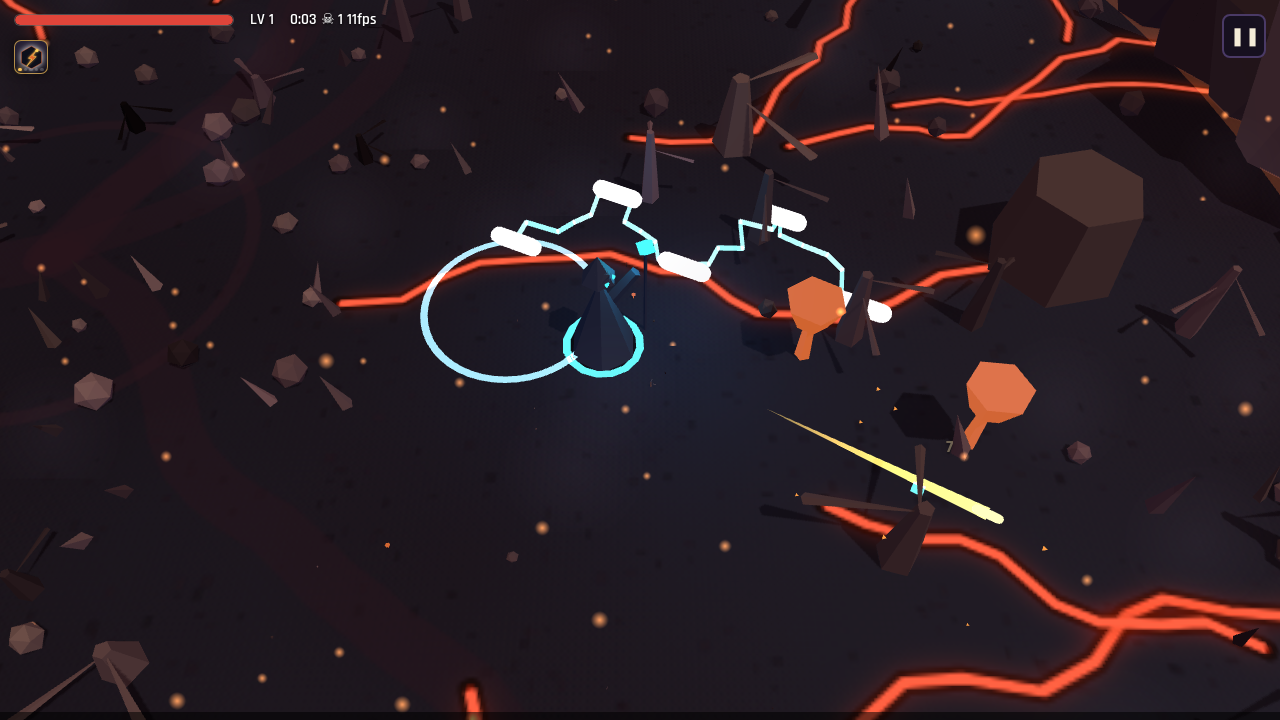
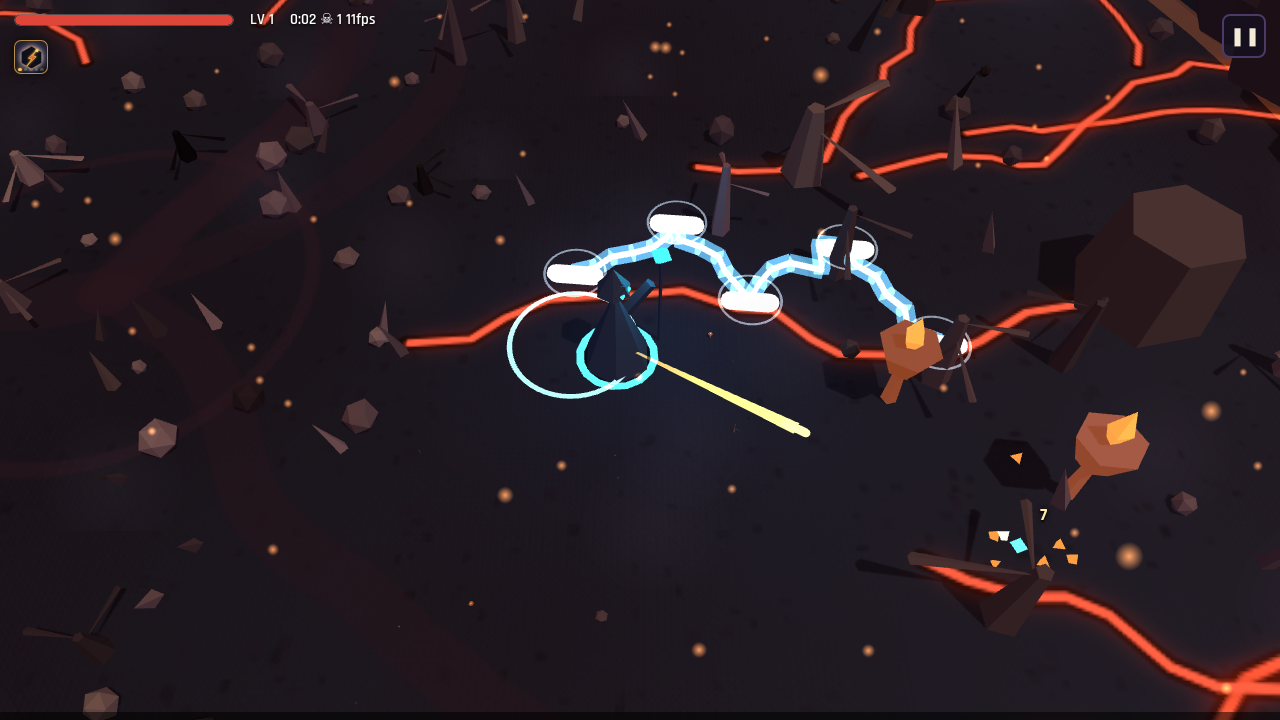
Art: lightning core+halo+node flash, tapered cyan-white blades, filled nova disc; merge #62 render

diff --git a/src/game/render/vfx.ts b/src/game/render/vfx.ts
@@ -8,7 +8,7 @@ export class Vfx {
   constructor(scene: THREE.Scene) {
     const g = new THREE.RingGeometry(0.92, 1, 48); g.rotateX(-Math.PI / 2);
     this.mesh = new THREE.InstancedMesh(g, new THREE.MeshBasicMaterial({ blending: THREE.AdditiveBlending, transparent: true, depthWrite: false, toneMapped: false }), Vfx.N);
-    this.mesh.instanceColor = new THREE.InstancedBufferAttribute(new Float32Array(Vfx.N * 3), 3); this.mesh.frustumCulled = false; this.mesh.count = 0; this.mesh.renderOrder = 2; scene.add(this.mesh); this.initTrail(scene); this.initZap(scene);
+    this.mesh.instanceColor = new THREE.InstancedBufferAttribute(new Float32Array(Vfx.N * 3), 3); this.mesh.frustumCulled = false; this.mesh.count = 0; this.mesh.renderOrder = 2; scene.add(this.mesh); this.initTrail(scene); this.initZap(scene); this.initDisc(scene);
   }
   ring(x: number, z: number, color: number, maxR: number, life: number, y = 0.12) {
     const i = this.head; this.head = (i + 1) % Vfx.N; this.x[i] = x; this.z[i] = z; this.y[i] = y; this.max[i] = maxR; this.life[i] = life; this.lifeMax[i] = life; this.col[i] = color;
@@ -19,7 +19,7 @@ export class Vfx {
   impact(x: number, z: number, color = 0xffd35a) { this.ring(x, z, color, 1.3, 0.2, 0.5); }
   bossBurst(x: number, z: number) { this.ring(x, z, 0xff3355, 18, 0.9); this.ring(x, z, 0xffffff, 9, 0.5); }
   // --- chain lightning: immediate-mode jagged additive bolts (re-jittered every frame = flicker) ---
-  static NZ = 320; private zm!: THREE.InstancedMesh; private zn = 0; private zc = new THREE.Color();
+  static NZ = 640; private zm!: THREE.InstancedMesh; private zn = 0; private zc = new THREE.Color();
   private initZap(scene: THREE.Scene) { this.zm = new THREE.InstancedMesh(new THREE.BoxGeometry(1, 1, 1), new THREE.MeshBasicMaterial({ blending: THREE.AdditiveBlending, transparent: true, depthWrite: false, toneMapped: false }), Vfx.NZ);
     this.zm.instanceColor = new THREE.InstancedBufferAttribute(new Float32Array(Vfx.NZ * 3), 3); this.zm.frustumCulled = false; this.zm.count = 0; scene.add(this.zm); }
   zapBegin() { this.zn = 0; }
@@ -28,19 +28,30 @@ export class Vfx {
     for (let i = 1; i <= seg && this.zn < Vfx.NZ; i++) {
       const t = i / seg, j = i === seg ? 0 : (Math.random() - 0.5) * 2 * jag, qx = x1 + dx * t + nx * j, qz = z1 + dz * t + nz * j;
       const sx = qx - px, sz = qz - pz, sl = Math.hypot(sx, sz) || 0.01;
-      this.o.position.set((px + qx) / 2, y, (pz + qz) / 2); this.o.rotation.set(0, Math.atan2(sx, sz), 0); this.o.scale.set(0.11, 0.11, sl + 0.05); this.o.updateMatrix(); this.zm.setMatrixAt(this.zn, this.o.matrix);
-      this.zc.setHex(color).multiplyScalar(2.4 * (0.7 + Math.random() * 0.6)); this.zm.setColorAt(this.zn++, this.zc); px = qx; pz = qz; }
+      this.o.position.set((px + qx) / 2, y, (pz + qz) / 2); this.o.rotation.set(0, Math.atan2(sx, sz), 0);
+      const fl = 0.7 + Math.random() * 0.6; // halo (wide, faint, tinted) then core (thin, white-hot); both flicker
+      if (this.zn + 1 < Vfx.NZ) { this.o.scale.set(0.44, 0.3, sl + 0.1); this.o.updateMatrix(); this.zm.setMatrixAt(this.zn, this.o.matrix); this.zc.setHex(color).multiplyScalar(0.55 * fl); this.zm.setColorAt(this.zn++, this.zc); }
+      this.o.scale.set(0.13, 0.13, sl + 0.05); this.o.updateMatrix(); this.zm.setMatrixAt(this.zn, this.o.matrix); this.zc.setHex(0xffffff).multiplyScalar(2.8 * fl); this.zm.setColorAt(this.zn++, this.zc); px = qx; pz = qz; }
     this.o.rotation.set(0, 0, 0);
   }
   zapEnd() { this.zm.count = this.zn; this.zm.instanceMatrix.needsUpdate = true; if (this.zm.instanceColor) this.zm.instanceColor.needsUpdate = true; }
+  // --- filled translucent discs (frost nova impact) ---
+  static ND = 16; private dm!: THREE.InstancedMesh; private dx = new Float32Array(Vfx.ND * 2); private dl = new Float32Array(Vfx.ND); private dmx = new Float32Array(Vfx.ND); private dr = new Float32Array(Vfx.ND); private dc = new Uint32Array(Vfx.ND); private dh = 0;
+  private initDisc(scene: THREE.Scene) { const g = new THREE.CircleGeometry(1, 40); g.rotateX(-Math.PI / 2); this.dm = new THREE.InstancedMesh(g, new THREE.MeshBasicMaterial({ blending: THREE.AdditiveBlending, transparent: true, depthWrite: false, toneMapped: false }), Vfx.ND);
+    this.dm.instanceColor = new THREE.InstancedBufferAttribute(new Float32Array(Vfx.ND * 3), 3); this.dm.frustumCulled = false; this.dm.count = 0; this.dm.renderOrder = 1; scene.add(this.dm); }
+  disc(x: number, z: number, color: number, R: number, life: number) { const i = this.dh; this.dh = (i + 1) % Vfx.ND; this.dx[i * 2] = x; this.dx[i * 2 + 1] = z; this.dmx[i] = R; this.dl[i] = this.dr[i] = life; this.dc[i] = color; }
+  private updateDisc(dt: number) { let k = 0; for (let i = 0; i < Vfx.ND; i++) { if (this.dl[i] <= 0) continue; this.dl[i] -= dt; if (this.dl[i] <= 0) continue; const t = 1 - this.dl[i] / this.dr[i], r = this.dmx[i] * (1 - (1 - t) * (1 - t) * (1 - t));
+      this.o.position.set(this.dx[i * 2], 0.1, this.dx[i * 2 + 1]); this.o.rotation.set(0, 0, 0); this.o.scale.set(r, 1, r); this.o.updateMatrix(); this.dm.setMatrixAt(k, this.o.matrix); this.c.setHex(this.dc[i]).multiplyScalar(0.55 * (1 - t) * (1 - t)); this.dm.setColorAt(k++, this.c); }
+    this.dm.count = k; this.dm.instanceMatrix.needsUpdate = true; if (this.dm.instanceColor) this.dm.instanceColor.needsUpdate = true; }
   /** Frost nova: expanding ice ring (thick, #9fe8ff) + inner white pulse. */
-  nova(x: number, z: number, R: number) { this.ring(x, z, 0x9fe8ff, R, 0.45, 0.2); this.ring(x, z, 0xffffff, R * 0.7, 0.3, 0.25); this.ring(x, z, 0x9fe8ff, R * 0.4, 0.5, 0.15); }
+  nova(x: number, z: number, R: number) { this.disc(x, z, 0x9fe8ff, R, 0.5); this.ring(x, z, 0x9fe8ff, R, 0.45, 0.2); this.ring(x, z, 0xffffff, R * 0.7, 0.3, 0.25); this.ring(x, z, 0x9fe8ff, R * 0.4, 0.5, 0.15); }
   // --- gem trail: tiny additive diamonds left behind magnetised gems; fade+shrink ---
   static NT = 256; private tm!: THREE.InstancedMesh; private tx = new Float32Array(Vfx.NT * 3); private tl = new Float32Array(Vfx.NT); private tc = new Uint32Array(Vfx.NT); private th = 0;
   private initTrail(scene: THREE.Scene) { this.tm = new THREE.InstancedMesh(new THREE.OctahedronGeometry(0.16), new THREE.MeshBasicMaterial({ blending: THREE.AdditiveBlending, transparent: true, depthWrite: false, toneMapped: false }), Vfx.NT);
     this.tm.instanceColor = new THREE.InstancedBufferAttribute(new Float32Array(Vfx.NT * 3), 3); this.tm.frustumCulled = false; this.tm.count = 0; scene.add(this.tm); }
   trail(x: number, y: number, z: number, color = 0x3df2ff) { const i = this.th; this.th = (i + 1) % Vfx.NT; this.tx[i * 3] = x; this.tx[i * 3 + 1] = y; this.tx[i * 3 + 2] = z; this.tl[i] = 0.35; this.tc[i] = color; }
   update(dt: number) {
+    this.updateDisc(dt);
     { let k = 0; for (let i = 0; i < Vfx.NT; i++) { if (this.tl[i] <= 0) continue; this.tl[i] -= dt; if (this.tl[i] <= 0) continue; const f = this.tl[i] / 0.35;
         this.o.position.set(this.tx[i * 3], this.tx[i * 3 + 1], this.tx[i * 3 + 2]); this.o.scale.setScalar(f); this.o.rotation.set(0, 0, 0); this.o.updateMatrix(); this.tm.setMatrixAt(k, this.o.matrix); this.c.setHex(this.tc[i]).multiplyScalar(2.5 * f); this.tm.setColorAt(k++, this.c); }
       this.tm.count = k; this.tm.instanceMatrix.needsUpdate = true; if (this.tm.instanceColor) this.tm.instanceColor.needsUpdate = true; }

diff --git a/src/game/render/renderer.ts b/src/game/render/renderer.ts
@@ -26,13 +26,13 @@ export class Renderer {
   // shard particles (kill bursts): SoA ring buffer, one InstancedMesh
   static NP = 2000; pMesh: THREE.InstancedMesh; px = new Float32Array(Renderer.NP * 3); pv = new Float32Array(Renderer.NP * 3); pl = new Float32Array(Renderer.NP); pHead = 0;
   setQuality(q: 'low' | 'med' | 'high') { this.q = q; this.bloomOn = q !== 'low' && new URLSearchParams(location.search).get('bloom') !== '0'; const pr = Math.min(devicePixelRatio, q === 'low' ? 1 : q === 'high' ? 2 : 1.5); this.three.setPixelRatio(pr); this.composer.setPixelRatio(pr); this.composer.setSize(innerWidth, innerHeight); }
-  occ!: OccluderFader; tele!: THREE.Mesh; vfx!: Vfx; trailTick = 0; playerMesh: THREE.Group; lantern!: THREE.Mesh; arena: ArenaHandle; m = new THREE.Object3D();
+  occ!: OccluderFader; tele!: THREE.Mesh; vfx!: Vfx; trailTick = 0; bladeMesh!: THREE.InstancedMesh; playerMesh: THREE.Group; lantern!: THREE.Mesh; arena: ArenaHandle; m = new THREE.Object3D();
   constructor(canvas: HTMLCanvasElement, def: ArenaDef) {
     this.three = new THREE.WebGLRenderer({ canvas, antialias: true, powerPreference: 'high-performance' });
     this.three.setPixelRatio(Math.min(devicePixelRatio, 2)); this.three.shadowMap.enabled = true;
     this.scene.background = new THREE.Color(def.palette.sky); this.scene.fog = new THREE.Fog(def.palette.fog, 25, 70);
     this.arena = def.build(this.scene); buildBoundary(this.scene, def);
-    this.tele = createTelegraph(); this.scene.add(this.tele); this.vfx = new Vfx(this.scene);
+    this.tele = createTelegraph(); this.scene.add(this.tele); this.vfx = new Vfx(this.scene); { const bg = new THREE.OctahedronGeometry(0.5, 0); bg.scale(0.5, 0.12, 1.5); this.bladeMesh = new THREE.InstancedMesh(bg, new THREE.MeshBasicMaterial({ color: new THREE.Color(0xbff6ff).multiplyScalar(3), toneMapped: false }), 64); this.bladeMesh.frustumCulled = false; this.bladeMesh.count = 0; this.scene.add(this.bladeMesh); }
     this.scene.traverse(o => { if ((o as THREE.DirectionalLight).isDirectionalLight && !this.sun) this.sun = o as THREE.DirectionalLight; });
     if (this.sun) { this.sunOff.copy(this.sun.position); this.scene.add(this.sun.target); const sc = this.sun.shadow.camera; sc.left = -24; sc.right = 24; sc.top = 24; sc.bottom = -24; sc.updateProjectionMatrix(); this.sun.shadow.mapSize.set(2048, 2048); this.sun.shadow.normalBias = 0.04; }
     this.occ = new OccluderFader(this.scene);
@@ -106,20 +106,21 @@ export class Renderer {
     if (b && b.mode === 1) { const e = s.enemies, L = 22, ang = Math.atan2(b.dx, b.dz); this.tele.position.set(e.x[b.idx] + b.dx * L / 2, 0.06, e.z[b.idx] + b.dz * L / 2); this.tele.rotation.set(-Math.PI / 2, 0, -ang); this.tele.scale.set(3.2, L, 1); (this.tele.material as THREE.MeshBasicMaterial).opacity = 0.45 + 0.35 * Math.abs(Math.sin(s.time * 18)); }
     T = this.lap('particles', T);
     this.enemies.update(s.enemies, s.time, ex); this.dmg.update(dt, this.camera); let n = 0; T = this.lap('enemies', T);
-    n = 0; let rn = 0, tn = 0, ln = 0; const pr = s.projectiles; this.vfx.zapBegin(); let lx = 0, lz = 0, ll = -1;
+    n = 0; let rn = 0, tn = 0, ln = 0, bn = 0; const pr = s.projectiles; this.vfx.zapBegin(); let lx = 0, lz = 0, ll = -1;
     for (let i = 0; i < pr.count; i++) { if (!pr.alive[i]) continue;
       const k = pr.kind[i];
-      if (k === 3) { if (ll >= 0 && Math.abs(pr.life[i] - ll) < 0.03 && Math.hypot(pr.x[i] - lx, pr.z[i] - lz) < 9) this.vfx.zap(lx, lz, pr.x[i], pr.z[i]); lx = pr.x[i]; lz = pr.z[i]; ll = pr.life[i]; }
-      else if (k === 1 && (this.trailTick & 1) === 0) this.vfx.trail(pr.x[i], 0.8, pr.z[i], 0x6fe8ff);
+      if (k === 3) { if (pr.life[i] > 0.1) this.vfx.ring(pr.x[i], pr.z[i], 0xcfefff, 1.1, 0.14, 0.9); if (ll >= 0 && Math.abs(pr.life[i] - ll) < 0.03 && Math.hypot(pr.x[i] - lx, pr.z[i] - lz) < 9) this.vfx.zap(lx, lz, pr.x[i], pr.z[i]); lx = pr.x[i]; lz = pr.z[i]; ll = pr.life[i]; }
+      else if (k === 1) { if ((this.trailTick & 1) === 0) this.vfx.trail(pr.x[i], 0.8, pr.z[i], 0x6fe8ff);
+        const pp = s.players[0]; this.m.position.set(pr.x[i], 0.8, pr.z[i]); this.m.rotation.set(0, Math.atan2(pr.x[i] - pp.x, pr.z[i] - pp.z) + Math.PI / 2, 0); this.m.scale.setScalar(1); this.m.updateMatrix(); this.bladeMesh.setMatrixAt(bn++, this.m.matrix); continue; }
       if (k === 2) { const maxLife = 0.35, f = 1 - pr.life[i] / maxLife, r = pr.vx[i] * f; this.m.position.set(pr.x[i], 0.15, pr.z[i]); this.m.rotation.set(-Math.PI / 2, 0, 0); this.m.scale.set(r, r, r); this.m.updateMatrix(); this.ringMesh.setMatrixAt(rn++, this.m.matrix); continue; }
       if (k === 4) { const f = Math.min(1, pr.life[i] / 0.6), r = pr.vx[i] * (0.75 + 0.25 * f) * (1 + 0.06 * Math.sin(s.time * 9 + i)); this.m.position.set(pr.x[i], 0.05, pr.z[i]); this.m.rotation.set(-Math.PI / 2, 0, 0); this.m.scale.set(r, r, r); this.m.updateMatrix(); this.lavaMesh.setMatrixAt(ln, this.m.matrix);
         this.flashColor.setHex(0xff4a14).multiplyScalar(1.2 + 1.4 * f); this.lavaMesh.setColorAt(ln++, this.flashColor); continue; }
       if (k === 0) { const yaw = Math.atan2(pr.vx[i], pr.vz[i]);
         this.m.position.set(pr.x[i], 0.8, pr.z[i]); this.m.rotation.set(0, yaw, 0); this.m.scale.setScalar(1); this.m.updateMatrix(); this.trailMesh.setMatrixAt(tn, this.m.matrix);
         this.flashColor.setHex(0xffd35a).multiplyScalar(2.2); this.trailMesh.setColorAt(tn++, this.flashColor); }
-      this.m.position.set(pr.x[i], 0.8, pr.z[i]); this.m.rotation.set(0, k === 0 ? Math.atan2(pr.vx[i], pr.vz[i]) : s.time * 8, 0); this.m.scale.setScalar(k === 1 ? 1.8 : k === 3 ? 2.2 : 1); this.m.updateMatrix(); this.projMesh.setMatrixAt(n, this.m.matrix);
+      this.m.position.set(pr.x[i], 0.8, pr.z[i]); this.m.rotation.set(0, k === 0 ? Math.atan2(pr.vx[i], pr.vz[i]) : s.time * 8, 0); this.m.scale.setScalar(k === 1 ? 1.8 : k === 3 ? 0.9 : 1); this.m.updateMatrix(); this.projMesh.setMatrixAt(n, this.m.matrix);
       this.flashColor.setHex(k === 1 ? 0x6fe8ff : k === 3 ? 0xfff6a8 : k === 5 ? 0xd9a8ff : 0xffd27a); this.flashColor.multiplyScalar(2.8); this.projMesh.setColorAt(n, this.flashColor); n++; }
-    this.vfx.zapEnd(); this.m.scale.setScalar(1); this.ringMesh.count = rn; this.ringMesh.instanceMatrix.needsUpdate = true; if (this.projMesh.instanceColor) this.projMesh.instanceColor.needsUpdate = true;
+    this.bladeMesh.count = bn; this.bladeMesh.instanceMatrix.needsUpdate = true; this.vfx.zapEnd(); this.m.scale.setScalar(1); this.ringMesh.count = rn; this.ringMesh.instanceMatrix.needsUpdate = true; if (this.projMesh.instanceColor) this.projMesh.instanceColor.needsUpdate = true;
     this.projMesh.count = n; this.projMesh.instanceMatrix.needsUpdate = true;
     this.trailMesh.count = tn; this.trailMesh.instanceMatrix.needsUpdate = true; this.trailMesh.instanceColor!.needsUpdate = true;
     this.lavaMesh.count = ln; this.lavaMesh.instanceMatrix.needsUpdate = true; if (this.lavaMesh.instanceColor) this.lavaMesh.instanceColor.needsUpdate = true;
